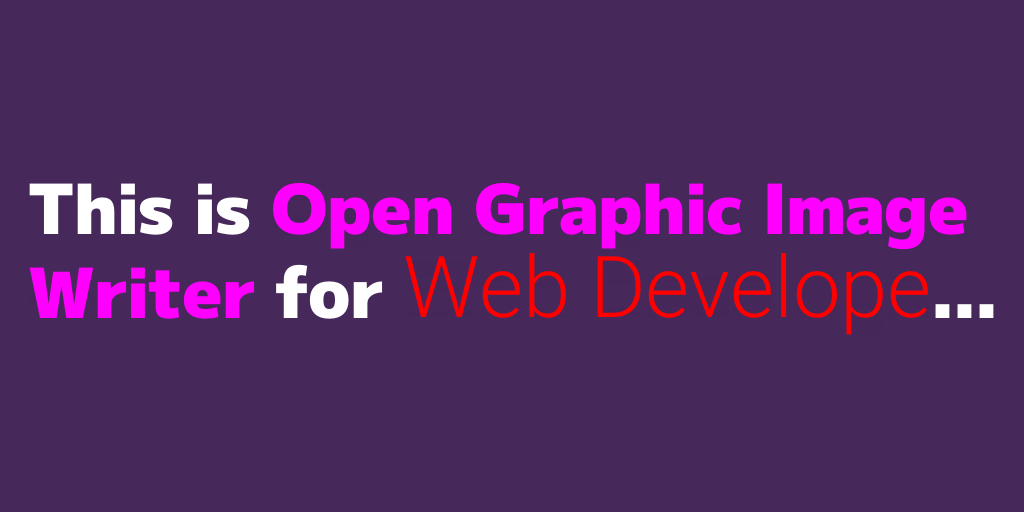
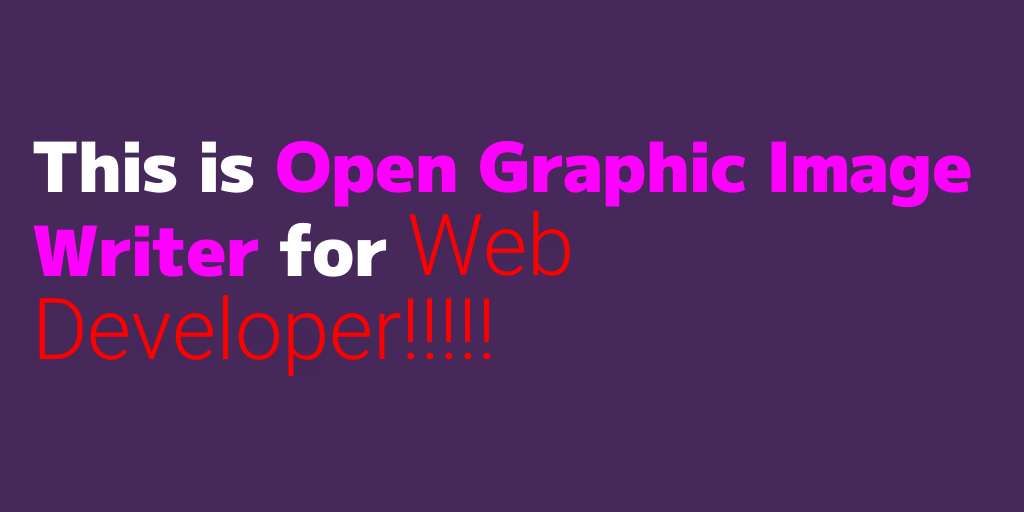
chore(example): fix textarea example

Changed region(s): [[0.0312, 0.25, 0.9688, 0.75]]

diff --git a/examples/textarea.rs b/examples/textarea.rs
@@ -24,10 +24,11 @@ fn main() -> anyhow::Result<()> {
     )?;
     textarea.push_text(" for ");
     textarea.push(
-        "Web Developer!!!!!",
+        "Web\\nDeveloper!!!!!",
         style::Style {
             color: style::Rgba([255, 0, 0, 255]),
             font_size: 100.,
+            white_space: style::WhiteSpace::PreLine,
             ..style::Style::default()
         },
         Some(include_bytes!("../fonts/Roboto-Light.ttf").to_vec()),
@@ -42,8 +43,6 @@ fn main() -> anyhow::Result<()> {
             // word_break: style::WordBreak::Normal,
             color: style::Rgba([255, 255, 255, 255]),
             text_align: style::TextAlign::Start,
-            max_height: Some(150),
-            text_overflow: style::TextOverflow::Ellipsis,
             word_break: style::WordBreak::BreakAll,
             ..style::Style::default()
         },
